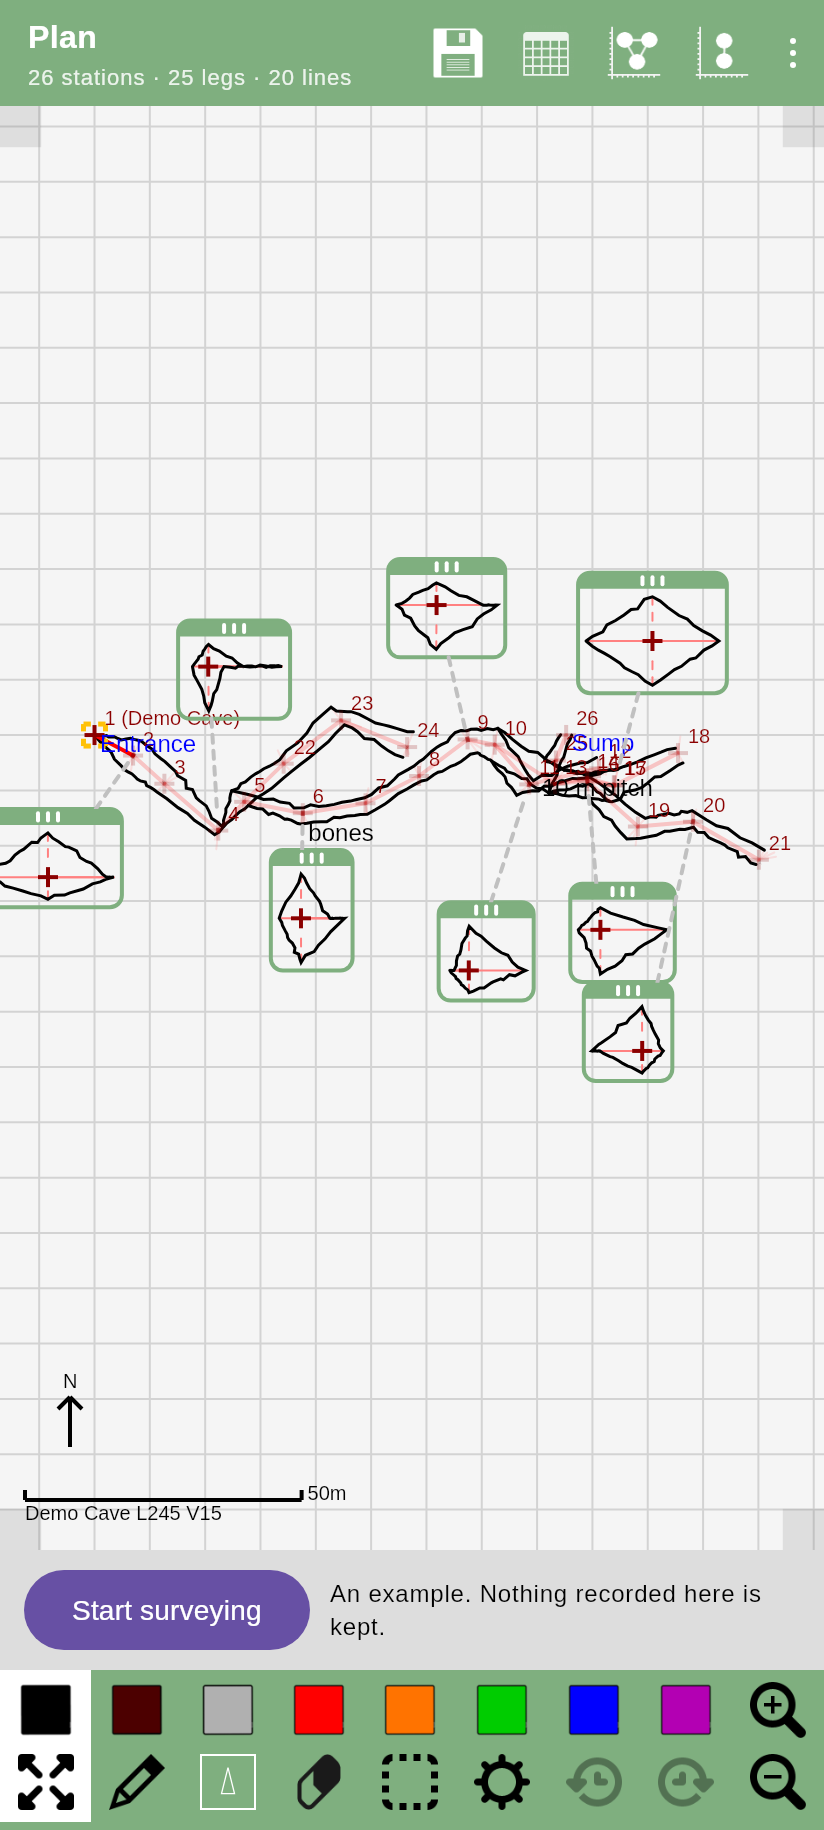
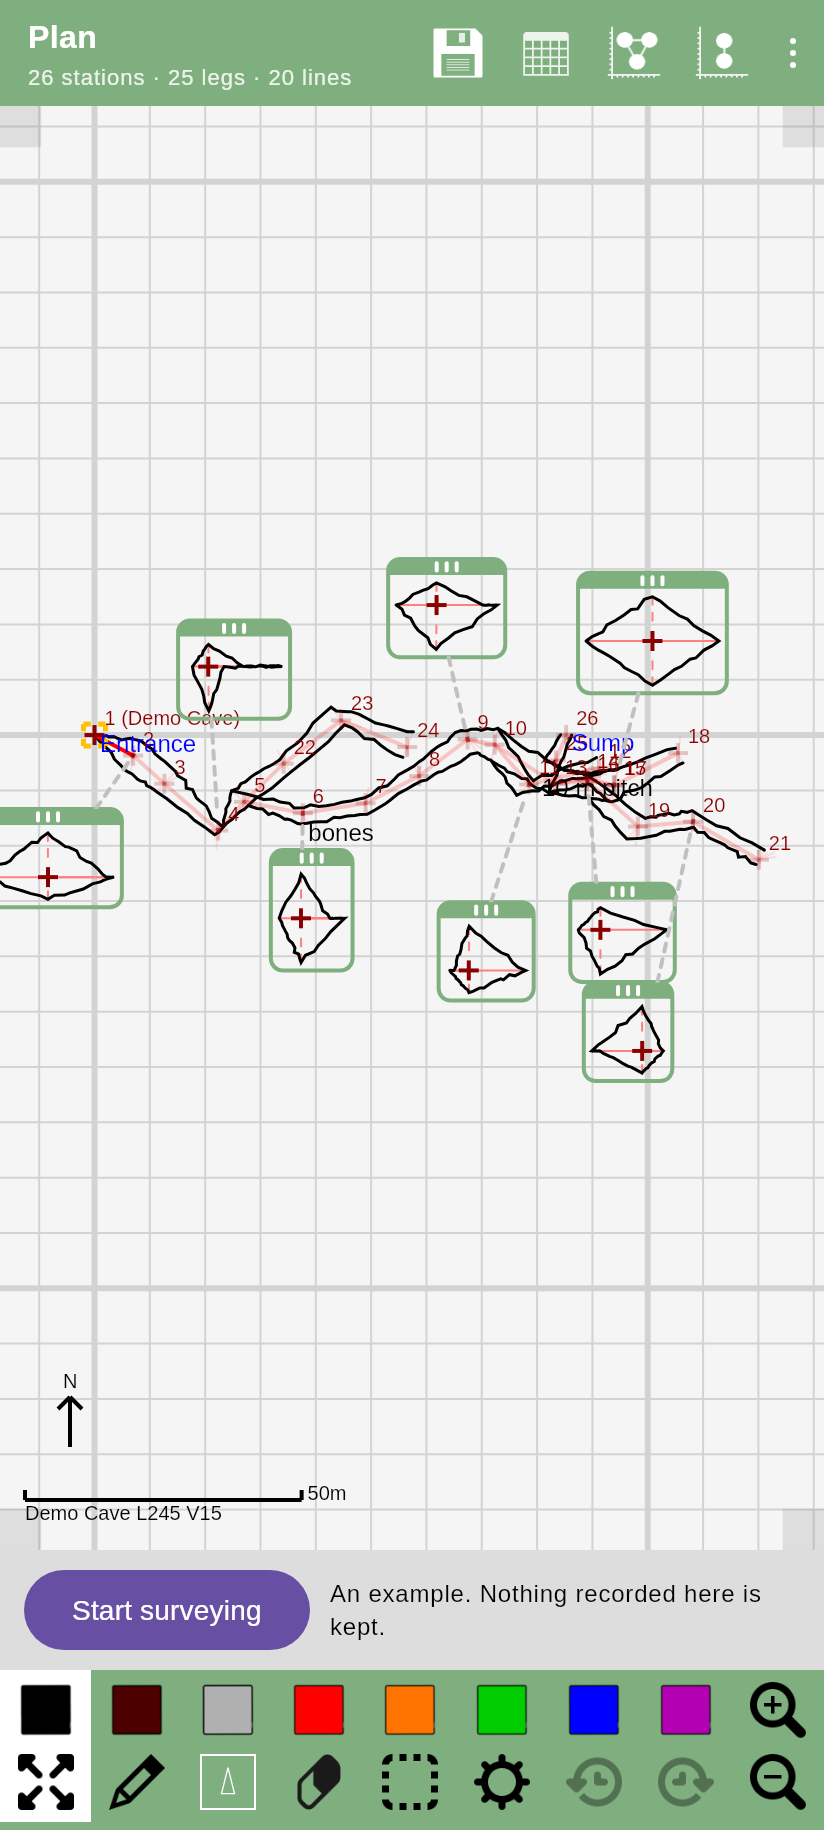
Ten-metre boxes, a legend in the section editor, and the app's own role names
The verification pass over the parity audit pinned down a further batch, each
with the Android line it came from.

drawGrid widens every tenth line — `n % BOX_SIZE == 0 ? 3 : 1`, on the line's
ordinal in survey coordinates — which is what makes the paper read as
ten-metre boxes divided into metres rather than as an undifferentiated mesh,
and what tells a surveyor the scale at a glance. This port drew every line the
same width.

CrossSectionView.onDraw is drawGrid, drawSurvey, drawLegend and nothing else.
So the section editor gains the legend line it was the only screen without —
and it is the only thing in there naming the cave — and loses the hot corners
and eraser ring the Java view deliberately omits: there is one station and its
wall shots in a section, and the corners of one drawn at four metres across
are inside the passage.

trip_role_* spell each role out: Book (drawing), Instruments, Dog (assistant),
Explorer. This port had abbreviated three of the four, and a caver who has not
filled that screen in before cannot tell what "Dog" is a role for. The rest of
the trip screen's labels are the app's too, and adding a team member now
refuses a blank name with trip_dialog_name_required, as
TeamMemberForm.performValidation does.

Two inventions removed: the leg comment dialog's placeholder, which
openLegCommentDialog has no counterpart for, and the dependency greying LRUD
entries out when Manual Data Controls is off —
[…]

diff --git a/kmp/demo/src/commonMain/kotlin/org/hwyl/sexytopo/demo/TripDetails.kt b/kmp/demo/src/commonMain/kotlin/org/hwyl/sexytopo/demo/TripDetails.kt
@@ -77,7 +77,7 @@ fun TripDetailsDialog(
 
     AlertDialog(
         onDismissRequest = onDismiss,
-        title = { Text("Trip details") },
+        title = { Text(Strings.actionTrip) },
         text = {
             Column(
                 Modifier.verticalScroll(rememberScrollState()),
@@ -86,7 +86,7 @@ fun TripDetailsDialog(
                 OutlinedTextField(
                     value = date,
                     onValueChange = { date = it },
-                    label = { Text("Survey date") },
+                    label = { Text(Strings.tripSurveyDateLabel) },
                     singleLine = true,
                     isError = dateProblem != null,
                     supportingText = dateProblem?.let { { Text(it) } },
@@ -106,7 +106,7 @@ fun TripDetailsDialog(
                             if (!linked) explorationDate = date
                         },
                     )
-                    Text("Explored on the day it was surveyed")
+                    Text(Strings.tripSameAsSurveyDate)
                 }
                 if (!explorationDateLinked) {
                     Row(
@@ -116,7 +116,7 @@ fun TripDetailsDialog(
                         OutlinedTextField(
                             value = explorationDate,
                             onValueChange = { explorationDate = it },
-                            label = { Text("Exploration date") },
+                            label = { Text(Strings.tripExplorationDateLabel) },
                             singleLine = true,
                             isError = explorationDateProblem != null,
                             supportingText = explorationDateProblem?.let { { Text(it) } },
@@ -127,7 +127,7 @@ fun TripDetailsDialog(
                     }
                 }
 
-                Text("Team", style = MaterialTheme.typography.titleSmall)
+                Text(Strings.tripTeam, style = MaterialTheme.typography.titleSmall)
                 for ((index, member) in team.withIndex()) {
                     TeamMemberRow(
                         member = member,
@@ -139,11 +139,19 @@ fun TripDetailsDialog(
                     horizontalArrangement = Arrangement.spacedBy(8.dp),
                     verticalAlignment = Alignment.CenterVertically,
                 ) {
+                    // `trip_dialog_add_to_team_name_hint` and `trip_dialog_name_required`:
+                    // `TeamMemberForm.performValidation` refuses a blank name, and says so.
                     OutlinedTextField(
                         value = newMember,
                         onValueChange = { newMember = it },
-                        label = { Text("Add someone") },
+                        label = { Text(Strings.tripAddToTeamNameHint) },
                         singleLine = true,
+                        isError = newMember.isNotEmpty() && newMember.isBlank(),
+                        supportingText = {
+                            if (newMember.isNotEmpty() && newMember.isBlank()) {
+                                Text(Strings.tripNameRequired)
+                            }
+                        },
                         modifier = Modifier.weight(1f),
                     )
                     TextButton(
@@ -152,13 +160,13 @@ fun TripDetailsDialog(
                             team.add(Trip.TeamEntry(newMember.trim()))
                             newMember = ""
                         },
-                    ) { Text("Add") }
+                    ) { Text(Strings.add) }
                 }
 
                 OutlinedTextField(
                     value = instrument,
                     onValueChange = { instrument = it },
-                    label = { Text("Instrument") },
+                    label = { Text(Strings.tripInstrumentLabel) },
                     placeholder = { Text("DistoX2") },
                     singleLine = true,
                     modifier = Modifier.fillMaxWidth(),
@@ -166,13 +174,13 @@ fun TripDetailsDialog(
                 OutlinedTextField(
                     value = comments,
                     onValueChange = { comments = it },
-                    label = { Text("Trip comments") },
-                    modifier = Modifier.fillMaxWidth().heightIn(min = 72.dp),
+                    label = { Text(Strings.tripComments) },
+                    modifier = Modifier.fillMaxWidth().heightIn(min = 96.dp),
                 )
                 OutlinedTextField(
                     value = copyrightHolder,
                     onValueChange = { copyrightHolder = it },
-                    label = { Text("Copyright holder") },
+                    label = { Text(Strings.tripCopyrightLabel) },
                     placeholder = { Text("Your caving club") },
                     singleLine = true,
                     modifier = Modifier.fillMaxWidth(),
@@ -185,7 +193,7 @@ fun TripDetailsDialog(
                         // field is the unanswered state, and "No licence" is its own chip.
                         if (it.isNotBlank()) isLicenceChosen = true
                     },
-                    label = { Text("Licence") },
+                    label = { Text(Strings.tripLicenceLabel) },
                     placeholder = { Text("CC-BY-SA-4.0") },
                     singleLine = true,
                     isError = !isLicenceChosen,
@@ -268,9 +276,9 @@ fun TripDetailsDialog(
                     survey.isSaved = false
                     onSaved()
                 },
-            ) { Text("Save") }
+            ) { Text(Strings.save) }
         },
-        dismissButton = { TextButton(onClick = onDismiss) { Text("Cancel") } },
+        dismissButton = { TextButton(onClick = onDismiss) { Text(Strings.cancel) } },
     )
 }
 
@@ -312,13 +320,16 @@ private fun TeamMemberRow(
     }
 }
 
-/** Sentence case rather than the file format's shouting. */
+/**
+ * `trip_role_book` and its three siblings, which say what each role *is* rather than abbreviating
+ * it: a caver who has not filled this screen in before does not know what "Book" or "Dog" means.
+ */
 internal fun labelFor(role: Trip.Role): String =
     when (role) {
-        Trip.Role.BOOK -> "Book"
-        Trip.Role.INSTRUMENTS -> "Instruments"
-        Trip.Role.DOG -> "Dog"
-        Trip.Role.EXPLORATION -> "Explo"
+        Trip.Role.BOOK -> Strings.tripRoleBook
+        Trip.Role.INSTRUMENTS -> Strings.tripRoleInstruments
+        Trip.Role.DOG -> Strings.tripRoleDog
+        Trip.Role.EXPLORATION -> Strings.tripRoleExploration
     }
 
 /**

diff --git a/kmp/demo/src/commonMain/kotlin/org/hwyl/sexytopo/demo/SurveyCanvas.kt b/kmp/demo/src/commonMain/kotlin/org/hwyl/sexytopo/demo/SurveyCanvas.kt
@@ -1030,7 +1030,15 @@ class SurveyScene private constructor(
          * @param working the sketch being edited, which is a copy of the section's own — see
          *   [Sketch.copy].
          */
-        fun forCrossSection(detail: CrossSectionDetail, working: Sketch): SurveyScene {
+        fun forCrossSection(
+            detail: CrossSectionDetail,
+            working: Sketch,
+            /**
+             * The survey the section belongs to, for the legend line `CrossSectionView` draws.
+             * Null draws no legend, which is what a caller with nothing to name wants.
+             */
+            survey: Survey? = null,
+        ): SurveyScene {
             val projection = detail.crossSection.getProjection()
             val station = detail.station
             // Every splay in a cross-section radiates from the station this view is centred on,
@@ -1052,11 +1060,14 @@ class SurveyScene private constructor(
                 splays = splays,
                 sketch = working,
                 activeStationName = station.name,
-                // No comment icon or survey name in brackets: those belong to the plan, not to
-                // the profile of the passage at this station.
+                // No comment icon, and no "(survey name)" after the origin's own label: those
+                // belong to the plan, not to the profile of the passage at this station. The
+                // legend line below is a different thing, and `CrossSectionView` does draw it.
                 commentedStations = emptySet(),
                 originName = "",
-                surveyName = "",
+                surveyName = survey?.name ?: "",
+                surveyLength = survey?.let(SurveyStats::totalLength) ?: 0f,
+                surveyHeight = survey?.let(SurveyStats::heightRange) ?: 0f,
                 bounds = crossSectionFitBounds(splays),
                 surveyBounds = Bounds.of(points),
             )
@@ -1249,6 +1260,12 @@ private const val ERASER_INSET_DP = 40f
 
 /** The faint metre grid. */
 private const val GRID_STROKE_DP = 1f
+
+/** `gridPaint.setStrokeWidth(... ? 3 : 1)`: what every tenth line is drawn at. */
+private const val MAJOR_GRID_STROKE_DP = 3f
+
+/** `GraphView.BOX_SIZE`: "every grid box is 10 units square". */
+private const val GRID_BOX_LINES = 10
 
 /** The scale bar: the rule itself, its two end ticks, and where its label sits. */
 private const val SCALE_BAR_TARGET_DP = 120f
@@ -1553,19 +1570,27 @@ private fun DrawScope.drawGrid(viewport: SketchViewport, palette: Palette) {
     val rows = (bottomRight.y - topLeft.y) / spacing
     if (!columns.isFinite() || !rows.isFinite() || columns > 400f || rows > 400f) return
 
-    val gridStroke = GRID_STROKE_DP.dp.toPx()
-    var x = floor(topLeft.x / spacing) * spacing
-    while (x <= bottomRight.x) {
-        val screenX = viewport.toScreen(Coord2D(x, topLeft.y)).x
-        drawLine(palette.grid, Offset(screenX, 0f), Offset(screenX, size.height), gridStroke)
-        x += spacing
+    val minor = GRID_STROKE_DP.dp.toPx()
+    val major = MAJOR_GRID_STROKE_DP.dp.toPx()
+
+    // `drawGrid` widens every tenth line: `gridPaint.setStrokeWidth(n % BOX_SIZE == 0 ? 3 : 1)`,
+    // where n is the line's ordinal in survey coordinates, not its position on screen. That is
+    // what makes the paper read as ten-metre boxes divided into metres rather than as an
+    // undifferentiated mesh — and it is what tells a surveyor the scale at a glance.
+    var line = floor(topLeft.x / spacing)
+    while (line * spacing <= bottomRight.x) {
+        val screenX = viewport.toScreen(Coord2D(line * spacing, topLeft.y)).x
+        val stroke = if (line.toInt() % GRID_BOX_LINES == 0) major else minor
+        drawLine(palette.grid, Offset(screenX, 0f), Offset(screenX, size.height), stroke)
+        line += 1f
     }
 
-    var y = floor(topLeft.y / spacing) * spacing
-    while (y <= bottomRight.y) {
-        val screenY = viewport.toScreen(Coord2D(topLeft.x, y)).y
-        drawLine(palette.grid, Offset(0f, screenY), Offset(size.width, screenY), gridStroke)
-        y += spacing
+    line = floor(topLeft.y / spacing)
+    while (line * spacing <= bottomRight.y) {
+        val screenY = viewport.toScreen(Coord2D(topLeft.x, line * spacing)).y
+        val stroke = if (line.toInt() % GRID_BOX_LINES == 0) major else minor
+        drawLine(palette.grid, Offset(0f, screenY), Offset(size.width, screenY), stroke)
+        line += 1f
     }
 }
 
@@ -2001,7 +2026,12 @@ private fun DrawScope.drawSurvey(
         }
     }
 
-    if (tool == SketchTool.ERASE) {
+    // `CrossSectionView.onDraw` is `drawGrid`, `drawSurvey`, `drawLegend` — and nothing else. No
+    // hot corners, and no eraser ring: there is one station and its wall shots in here, and the
+    // corners of a section drawn at four metres across are inside the passage.
+    val isCrossSection = projection == Projection2D.CROSS_SECTION
+
+    if (tool == SketchTool.ERASE && !isCrossSection) {
         // The eraser's real reach, drawn at the size a tap would actually clear.
         drawCircle(
             palette.station,
@@ -2013,7 +2043,7 @@ private fun DrawScope.drawSurvey(
 
     // Last, so they sit on top of the drawing rather than under it: a corner you cannot see
     // because a passage wall is drawn across it is a corner that will eat a stroke.
-    if (options.hotCorners) {
+    if (options.hotCorners && !isCrossSection) {
         drawHotCorners(modalMoving, palette)
     }
 
@@ -2115,8 +2145,9 @@ private fun DrawScope.drawLegend(
 
     // `offsetX`/`offsetY`, both `legendSize * 1.25`, so a bigger legend moves further in.
     val inset = textSize * 1.25f
-    // A cross-section has no survey name and no length of its own, and `CrossSectionView` draws
-    // no legend either — so nothing is drawn rather than "  L0 V0".
+    // `CrossSectionView.onDraw` calls `drawLegend` as the plan's does, so the section's editor
+    // carries the same line — it is the only thing on that screen naming the cave. Guarded on the
+    // name only so a scene built without one draws nothing rather than "  L0 V0".
     if (scene.surveyName.isNotEmpty()) {
         val label =
             scene.surveyName +

diff --git a/kmp/demo/src/commonMain/kotlin/org/hwyl/sexytopo/demo/Strings.kt b/kmp/demo/src/commonMain/kotlin/org/hwyl/sexytopo/demo/Strings.kt
@@ -380,6 +380,24 @@ object Strings {
     fun deleteSurveyContent(name: String): String =
         fileDeleteSurveyContent.replace("%1\$s", name)
 
+    // -- Trip details ---------------------------------------------------------------------
+
+    val tripTeam = s("trip_team", "Team")
+    val tripComments = s("trip_comments", "Comments")
+    val tripRoleBook = s("trip_role_book", "Book (drawing)")
+    val tripRoleInstruments = s("trip_role_instruments", "Instruments")
+    val tripRoleDog = s("trip_role_dog", "Dog (assistant)")
+    val tripRoleExploration = s("trip_role_exploration", "Explorer")
+    val tripInstrumentLabel = s("trip_instrument_label", "Instrument")
+    val tripSurveyDateLabel = s("trip_survey_date_label", "Survey Date")
+    val tripExplorationDateLabel = s("trip_exploration_date_label", "Exploration Date")
+    val tripSameAsSurveyDate = s("trip_same_as_survey_date", "Same as survey date")
+    val tripCopyrightLabel = s("trip_copyright_label", "Copyright holder")
+    val tripLicenceLabel = s("trip_licence_label", "Licence")
+    val tripAddToTeamTitle = s("trip_dialog_title_add_to_team", "Add to Team")
+    val tripAddToTeamNameHint = s("trip_dialog_add_to_team_name_hint", "Name")
+    val tripNameRequired = s("trip_dialog_name_required", "Name is required")
+
     // -- Manual entry ---------------------------------------------------------------------
 
     val manualAddStationTitle = s("manual_add_station_title", "Add Station")

diff --git a/kmp/demo/src/commonMain/kotlin/org/hwyl/sexytopo/demo/ManualEntrySettingsDialog.kt b/kmp/demo/src/commonMain/kotlin/org/hwyl/sexytopo/demo/ManualEntrySettingsDialog.kt
@@ -56,14 +56,15 @@ fun ManualEntrySettingsDialog(
                     onCheckedChange = { manualControls = it },
                 )
 
-                // Disabled rather than hidden when there's no hand-typed reading to put it in:
-                // a row that vanishes is one nobody can find again to see why it did nothing.
+                // `preferences_manual_data_entry.xml` declares no `android:dependency` between
+                // these two, and the LRUD fields reach more than the hand-typed reading dialog —
+                // the station menu's own passage-size face uses them too. Greying it out with
+                // *Manual Data Controls* off was this port's invention, and a wrong one.
                 Toggle(
                     title = Strings.settingsLrudFieldsTitle,
                     detail = Strings.settingsLrudFieldsSummary,
                     checked = lrudFields,
                     onCheckedChange = { lrudFields = it },
-                    enabled = manualControls,
                 )
 
                 // `pref_lrud_direction`: the Android app reads this key but declares it nowhere,

diff --git a/kmp/demo/src/jvmTest/kotlin/org/hwyl/sexytopo/demo/TripDetailsTest.kt b/kmp/demo/src/jvmTest/kotlin/org/hwyl/sexytopo/demo/TripDetailsTest.kt
@@ -177,9 +177,16 @@ class TripDetailsTest {
         assertTrue(survex.startsWith("*begin Swildons"))
     }
 
+    /**
+     * `trip_role_*`: what each role *is*, not an abbreviation of it. This port had "Book", "Dog"
+     * and "Explo", which are three of the four the Android app spells out — and a caver who has
+     * not filled this screen in before cannot tell what "Dog" is a role for.
+     */
     @Test
-    fun roleLabelsAreReadable() {
+    fun roleLabelsAreTheAndroidAppsOwn() {
+        assertEquals("Book (drawing)", labelFor(Trip.Role.BOOK))
         assertEquals("Instruments", labelFor(Trip.Role.INSTRUMENTS))
-        assertEquals("Explo", labelFor(Trip.Role.EXPLORATION))
+        assertEquals("Dog (assistant)", labelFor(Trip.Role.DOG))
+        assertEquals("Explorer", labelFor(Trip.Role.EXPLORATION))
     }
 }

diff --git a/kmp/demo/src/commonMain/kotlin/org/hwyl/sexytopo/demo/CrossSectionEditor.kt b/kmp/demo/src/commonMain/kotlin/org/hwyl/sexytopo/demo/CrossSectionEditor.kt
@@ -103,7 +103,8 @@ fun CrossSectionEditor(
     var brushColour by remember(detail) { mutableStateOf(working.activeColour) }
     var menuOpen by remember(detail) { mutableStateOf(false) }
 
-    val scene = remember(detail, revision) { SurveyScene.forCrossSection(detail, working) }
+    val scene =
+        remember(detail, revision) { SurveyScene.forCrossSection(detail, working, survey) }
 
     fun pickColour(colour: Colour) {
         brushColour = colour

diff --git a/kmp/demo/src/commonMain/kotlin/org/hwyl/sexytopo/demo/LegActions.kt b/kmp/demo/src/commonMain/kotlin/org/hwyl/sexytopo/demo/LegActions.kt
@@ -510,7 +510,6 @@ private fun LegCommentDialog(
                         },
                     )
                 },
-                placeholder = { Text("Sump; do not follow") },
                 modifier = Modifier.fillMaxWidth().then(focus),
             )
         },
